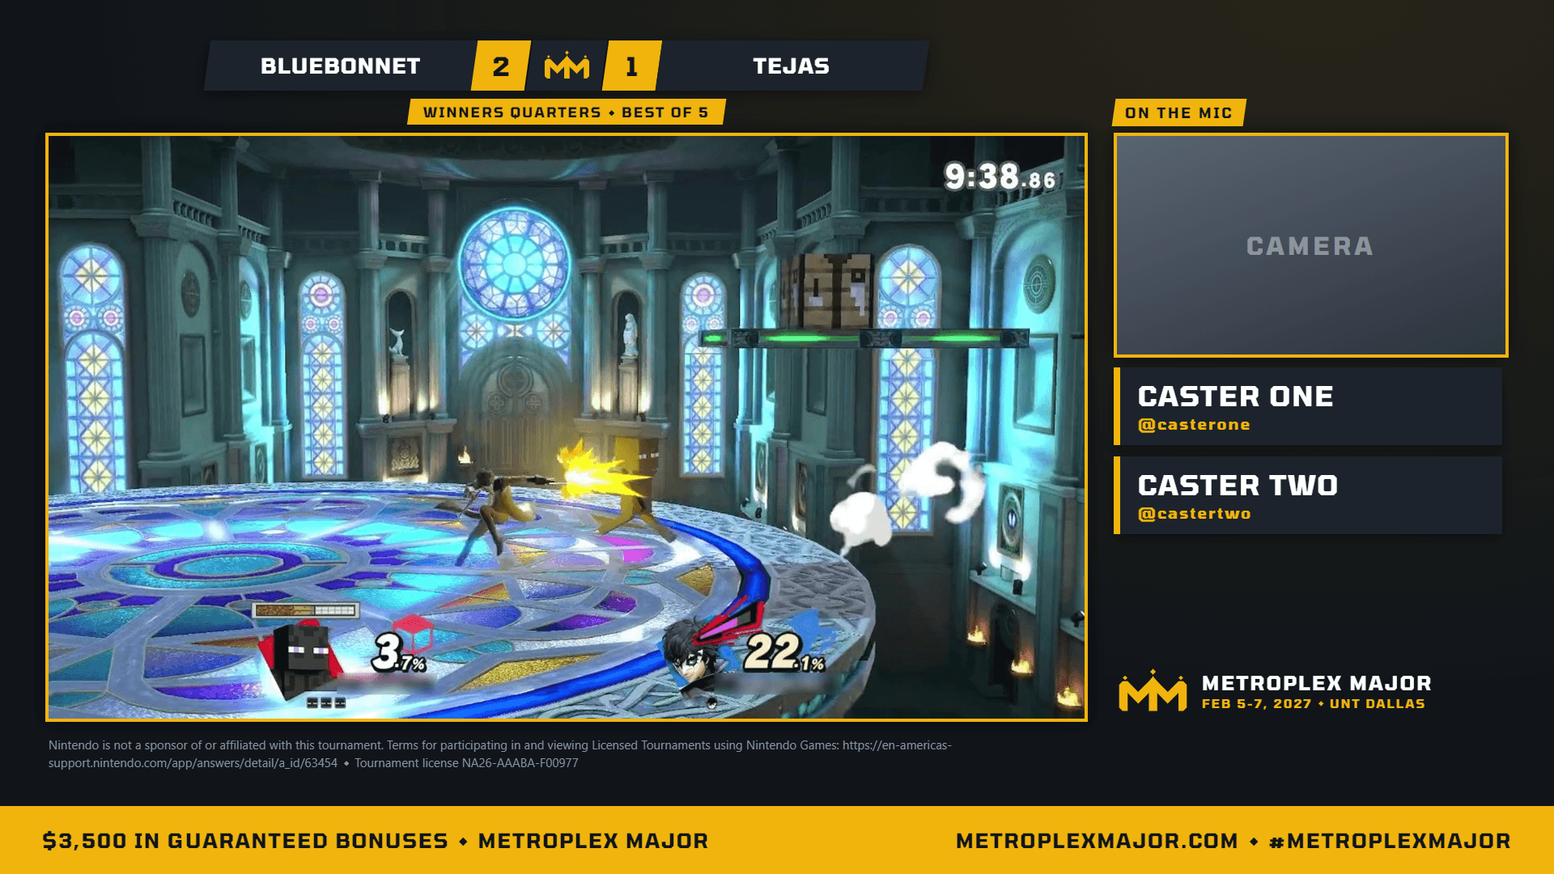
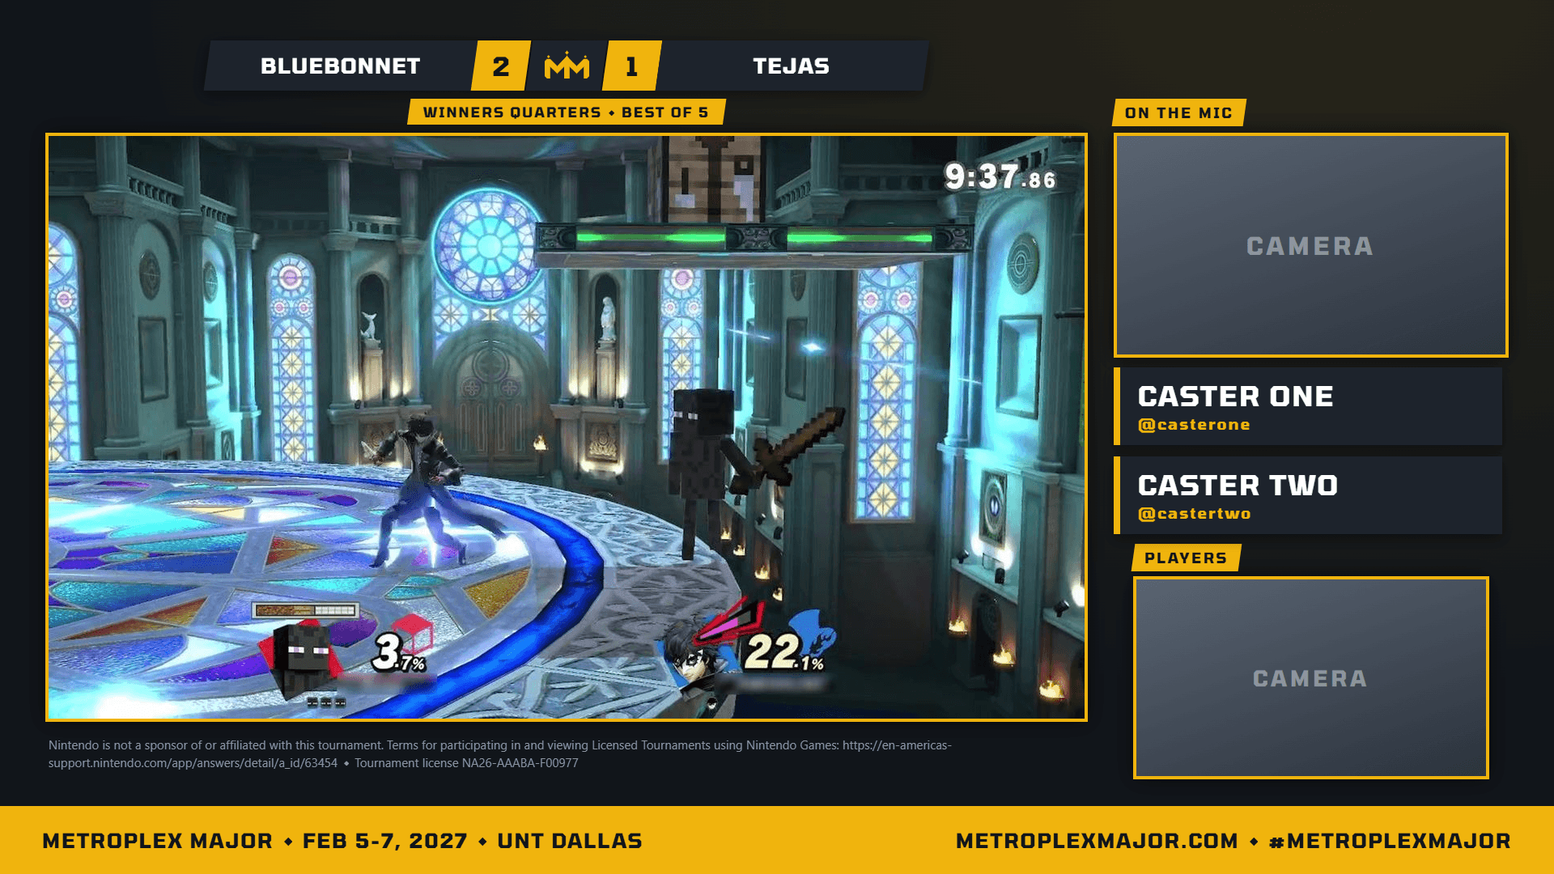
Player cam: a frame on the gameplay overlay and a Players window in Casters
- Settings, Player cam: pick the camera, "Add player cam to OBS" puts it
  in the gameplay scene just under the overlay and in MM Casters just
  under the Casters page; "Show the player cam" turns the frames on.
- Gameplay: a 352x198 window at the bottom, centred between the two
  players' HUD panels in Ultimate (x 754-1106) and bottom centre in
  Tekken 8 and SF6. The recorder moves the camera when the game changes,
  hides it for Ultimate doubles and when the setting is off.
  playerCam.boxes in config.json overrides a game's window.
- MM ticker stops short of the cam frame in Tekken 8.
- Casters: a Players window under the caster cards, in place of the
  crown lockup.
- README: Player cam section; screenshots redone with the cam, the
  wrapped ticker and the plain REPLAY badge.

Tested against OBS 32 with a stand-in camera (placement, layer order,
game switch, doubles, setting off) and in Chrome (frames, ticker widths).

diff --git a/server.js b/server.js
@@ -101,6 +101,10 @@ const DEFAULT_CONFIG = {
   // at 100% be heard (slowed ones never are).
   // fade takes a little colour out of the clip on air, so viewers can tell the moment already happened.
   replay: { enabled: true, seconds: 15, speed: 50, autoReturn: true, audio: false, inRecord: false, fade: true },
+  // Player cam: one camera on the players. enabled draws its frame on the gameplay overlay (bottom centre,
+  // between Ultimate's HUD panels) and a Players box in the Casters scene; source is the OBS input that
+  // "Add player cam to OBS" places under those frames. boxes (optional) overrides the window per game.
+  playerCam: { enabled: false, source: '' },
 };
 
 // ---------- utilities ----------
@@ -738,6 +742,7 @@ function onSwitcherEvent(ev) {
     if (sw === obs) trainer.cleanupLeftovers();
     rememberRecordDirectory();
     replay.onReady().catch((e) => log('Instant replay:', e.message));
+    if (sw === obs) syncPlayerCam({ force: true });
   } else if (['replay-state', 'replay-saved', 'media-ended'].includes(ev.type)) {
     replay.onSwitcherEvent(ev);
   } else if (ev.type === 'record') {
@@ -1521,6 +1526,8 @@ function updateConfig(body) {
     inRecord: !!rp.inRecord,
     fade: rp.fade !== false,
   };
+  const pc = next.playerCam || {};
+  next.playerCam = { enabled: !!pc.enabled, source: String(pc.source || '').trim().slice(0, 200), ...(pc.boxes && typeof pc.boxes === 'object' ? { boxes: pc.boxes } : {}) };
   const modeChanged = next.mode !== cfg.mode;
   // The buffer runs in Broadcast mode (and in Record mode only with inRecord), so a mode switch can start or stop it.
   const replayChanged = modeChanged || ['enabled', 'seconds', 'inRecord', 'fade'].some((k) => next.replay[k] !== cfg.replay[k]);
@@ -1622,6 +1629,8 @@ function coreSnapshot() {
     branding: brandingInfo(),
     screens: state.screens,
     screenLayout: CASTER_LAYOUT,
+    // Where the player cam's window is on the gameplay screen for the game being played, and whether it shows.
+    playerCam: playerCamView(),
     screenScenes: SCREENS.map((s) => s.scene),
     stageList: STAGES,
     version: APP_VERSION,
@@ -1661,6 +1670,8 @@ const lastSent = { state: '', log: '', replays: '' };
 // nothing anyone can see sends nothing. The log and replays go first, so the dashboard has them when
 // the state event redraws it.
 function broadcast() {
+  // The player cam follows the game and doubles; this does nothing until something it depends on changed.
+  if (cfg.playerCam && cfg.playerCam.source) syncPlayerCam();
   if (broadcastTimer) return;
   broadcastTimer = setTimeout(() => {
     broadcastTimer = null;
@@ -2028,7 +2039,90 @@ async function installOverlay(sceneName) {
 // ---------- stream screens: Starting Soon, BRB, Casters ----------
 // The Casters page draws the Metroplex Major frame with two transparent windows; the gameplay capture
 // and the camera sit underneath, placed into these boxes (1920x1080 coordinates, scaled to the canvas).
-const CASTER_LAYOUT = { game: { x: 60, y: 168, w: 1280, h: 720 }, cam: { x: 1380, y: 168, w: 480, h: 270 } };
+const CASTER_LAYOUT = {
+  game: { x: 60, y: 168, w: 1280, h: 720 }, cam: { x: 1380, y: 168, w: 480, h: 270 },
+  // The player cam, under the caster cards (shown when Settings turns the player cam on).
+  player: { x: 1404, y: 716, w: 432, h: 243 },
+};
+// ---------- player cam ----------
+// Its window on the gameplay screen (1920x1080 coordinates; the overlay draws the frame around it and the
+// camera sits underneath in OBS). Ultimate's 1v1 HUD panels end at x 720 and start at x 1140, so the
+// camera is centred between them on x 930, level with the bottom of the HUD; Tekken 8 and SF6 keep their
+// HUD at the top, so it sits bottom centre. Ultimate doubles fills the bottom with four panels, so the
+// player cam stays off for doubles sets. playerCam.boxes in config.json overrides a game's window.
+const PLAYER_CAM = { ssbu: { x: 754, y: 852, w: 352, h: 198 }, other: { x: 784, y: 852, w: 352, h: 198 } };
+const isDoubles = () => (state.current.game || 'ssbu') === 'ssbu' && [state.current.p1, state.current.p2].some((n) => / & /.test(n || ''));
+function playerCamView() {
+  const game = state.current.game || cfg.game || 'ssbu';
+  const pc = cfg.playerCam || {};
+  const box = (pc.boxes && pc.boxes[game]) || PLAYER_CAM[game] || PLAYER_CAM.other;
+  return { enabled: !!pc.enabled, show: !!pc.enabled && !isDoubles(), box, source: pc.source || '' };
+}
+// Keeps the camera in OBS where the frames are: moved when the game changes, shown or hidden with the
+// setting (and for doubles). Only the scene items "Add player cam to OBS" made are touched.
+let pcamSig = '';
+let pcamBusy = false;
+let pcamAgain = false;
+async function syncPlayerCam({ force = false } = {}) {
+  if (sw !== obs || obs.status !== 'connected') return;
+  const v = playerCamView();
+  if (!v.source) return;
+  const sig = `${v.source}|${v.enabled}|${v.show}|${JSON.stringify(v.box)}`;
+  if (!force && sig === pcamSig) return;
+  if (pcamBusy) { pcamAgain = true; return; }
+  pcamBusy = true;
+  try {
+    let canvas = { w: 1920, h: 1080 };
+    try { const vs = await obs.request('GetVideoSettings'); canvas = { w: vs.baseWidth || 1920, h: vs.baseHeight || 1080 }; } catch { /* assume 1080p */ }
+    const kx = canvas.w / 1920;
+    const ky = canvas.h / 1080;
+    const scenes = (await obs.request('GetSceneList')).scenes.map((s) => s.sceneName);
+    for (const [scene, box, visible] of [[gameplaySceneName(scenes), v.box, v.show], ['MM Casters', CASTER_LAYOUT.player, v.enabled]]) {
+      if (!scene || !scenes.includes(scene)) continue;
+      const it = ((await obs.request('GetSceneItemList', { sceneName: scene })).sceneItems || []).find((i) => i.sourceName === v.source);
+      if (!it) continue;
+      await obs.request('SetSceneItemTransform', {
+        sceneName: scene, sceneItemId: it.sceneItemId,
+        sceneItemTransform: { positionX: box.x * kx, positionY: box.y * ky, alignment: 5, boundsType: 'OBS_BOUNDS_SCALE_INNER', boundsAlignment: 0, boundsWidth: box.w * kx, boundsHeight: box.h * ky },
+      });
+      if (!!it.sceneItemEnabled !== visible) await obs.request('SetSceneItemEnabled', { sceneName: scene, sceneItemId: it.sceneItemId, sceneItemEnabled: visible });
+    }
+    pcamSig = sig;
+  } catch (e) {
+    log('Player cam: could not update OBS', e.message);
+  } finally {
+    pcamBusy = false;
+    if (pcamAgain) { pcamAgain = false; syncPlayerCam(); }
+  }
+}
+// Puts the camera input into the gameplay scene (just under the overlay, which draws its frame) and into
+// MM Casters (just under the Casters page), then places it.
+async function installPlayerCam(source) {
+  if (sw !== obs || obs.status !== 'connected') throw new Error('OBS is not connected');
+  if (source !== undefined) { cfg.playerCam = { ...cfg.playerCam, source: String(source || '').trim() }; saveConfig(); }
+  const src = cfg.playerCam.source;
+  if (!src) throw new Error('Pick the player camera in Settings, Player cam, first');
+  const inputs = (await obs.request('GetInputList')).inputs.map((i) => i.inputName);
+  if (!inputs.includes(src)) throw new Error(`OBS has no source called "${src}"`);
+  const scenes = (await obs.request('GetSceneList')).scenes.map((s) => s.sceneName);
+  const gameplay = gameplaySceneName(scenes);
+  if (!gameplay) throw new Error('No gameplay scene found in OBS: pick it in Settings, Stream screens');
+  const done = [];
+  for (const [scene, under] of [[gameplay, OVERLAY_INPUT], ['MM Casters', 'MM Casters Frame']]) {
+    if (!scenes.includes(scene)) continue;
+    const items = async () => (await obs.request('GetSceneItemList', { sceneName: scene })).sceneItems || [];
+    if (!(await items()).some((i) => i.sourceName === src)) await obs.request('CreateSceneItem', { sceneName: scene, sourceName: src, sceneItemEnabled: true });
+    const list = await items();
+    const me = list.find((i) => i.sourceName === src);
+    const top = list.find((i) => i.sourceName === under);
+    if (me && top) await obs.request('SetSceneItemIndex', { sceneName: scene, sceneItemId: me.sceneItemId, sceneItemIndex: me.sceneItemIndex > top.sceneItemIndex ? top.sceneItemIndex : top.sceneItemIndex - 1 }).catch(() => {});
+    done.push(scene);
+  }
+  await syncPlayerCam({ force: true });
+  log(`Player cam: "${src}" placed in ${done.join(' and ')}`);
+  broadcast();
+  return { ok: true, scenes: done, source: src };
+}
 const SCREENS = [
   { id: 'starting', scene: 'MM Starting Soon', input: 'MM Starting Soon Screen', path: '/slate?scene=starting' },
   { id: 'brb', scene: 'MM BRB', input: 'MM BRB Screen', path: '/slate?scene=brb' },
@@ -2212,6 +2306,13 @@ async function handleDetectApi(route, req, res, url) {
     case 'POST /api/overlay/install': {
       const body = await readBody(req);
       try { sendJson(res, 200, sw === vmix ? await installVmixOverlay(body.channel) : await installOverlay(String(body.scene || ''))); }
+      catch (e) { sendJson(res, 400, { error: e.message }); }
+      return true;
+    }
+    // "Add player cam to OBS" (Settings, Player cam): body.source picks the camera input.
+    case 'POST /api/playercam/install': {
+      const b = await readBody(req);
+      try { sendJson(res, 200, await installPlayerCam(b.source)); }
       catch (e) { sendJson(res, 400, { error: e.message }); }
       return true;
     }

diff --git a/public/casters.html b/public/casters.html
@@ -6,7 +6,7 @@
 <!-- Casters scene, 1920x1080. The frame is drawn around two transparent windows: the gameplay capture
      and the camera sit underneath in OBS ("Add Metroplex Major scenes" places them; the boxes come from
      the server's CASTER_LAYOUT). Above the gameplay: the current set and score. Under the camera: one or
-     two caster name cards typed in the dashboard. -->
+     two caster name cards typed in the dashboard, then the player cam's window when the player cam is on. -->
 <style>
   @font-face { font-family: 'Tomorrow'; src: url('/fonts/Tomorrow-Bold.ttf') format('truetype'); font-weight: 700; }
   html, body { margin: 0; width: 1920px; height: 1080px; overflow: hidden; background: transparent; }
@@ -45,7 +45,7 @@
   <svg id="bg" viewBox="0 0 1920 1080" aria-hidden="true">
     <defs>
       <radialGradient id="glow" cx="0.85" cy="0" r="0.8"><stop offset="0" stop-color="#F0B40D" stop-opacity=".10"/><stop offset="1" stop-color="#F0B40D" stop-opacity="0"/></radialGradient>
-      <mask id="holes"><rect width="1920" height="1080" fill="#fff"/><rect id="hole-game" fill="#000"/><rect id="hole-cam" fill="#000"/></mask>
+      <mask id="holes"><rect width="1920" height="1080" fill="#fff"/><rect id="hole-game" fill="#000"/><rect id="hole-cam" fill="#000"/><rect id="hole-player" fill="#000" width="0" height="0"/></mask>
     </defs>
     <g mask="url(#holes)">
       <rect width="1920" height="1080" fill="#11151A"/>
@@ -54,6 +54,7 @@
   </svg>
   <div id="frame-game" class="frame"></div>
   <div id="frame-cam" class="frame"></div>
+  <div id="frame-player" class="frame" hidden></div>
   <div id="board" hidden>
     <div id="n1" class="seg nm"><span></span></div>
     <div id="s1" class="seg pt"><span></span></div>
@@ -64,6 +65,7 @@
   <div id="round" hidden><span></span></div>
   <div id="headline" hidden>Metroplex Major</div>
   <div id="cam-tag" class="tag"><span>On the mic</span></div>
+  <div id="player-tag" class="tag" hidden><span>Players</span></div>
   <div id="card1" class="card" hidden><b></b><small></small></div>
   <div id="card2" class="card" hidden><b></b><small></small></div>
   <div id="lockup">
@@ -135,6 +137,19 @@
       card.querySelector('small').textContent = k.handle || '';
       card.querySelector('small').hidden = !k.handle;
       y += (k.handle ? 96 : 76) + 14;
+    }
+    // Player cam (Settings, Player cam): a third window under the caster cards, with its own tag. It takes
+    // the crown lockup's place; the gold band below still carries the Major's name.
+    const pl = L.player;
+    const pcOn = !!(pl && S.playerCam && S.playerCam.enabled);
+    $('#frame-player').hidden = !pcOn;
+    $('#player-tag').hidden = !pcOn;
+    $('#lockup').hidden = pcOn;
+    setRect($('#hole-player'), pcOn ? pl : { x: 0, y: 0, w: 0, h: 0 });
+    if (pcOn) {
+      place($('#frame-player'), { x: pl.x - 4, y: pl.y - 4, w: pl.w, h: pl.h });
+      $('#player-tag').style.left = px(pl.x - 4);
+      $('#player-tag').style.top = px(pl.y - 44);
     }
     // Crown lockup at the foot of the right column, level with the bottom of the gameplay window.
     const lock = $('#lockup');

diff --git a/public/overlay.js b/public/overlay.js
@@ -275,10 +275,11 @@
   }
   // Ticker and crown lockup in the bottom corners, for every game whose HUD leaves the corners free.
   let mmTicker = null;
+  let tickerFit = null;
   // In a narrow corner each short part between the gems stays on one line, so a line breaks at the gems
   // ("Feb 5-7, 2027" never splits); a part too long for one line still wraps.
   function tickerHtml(line) {
-    if (!G.ticker) return window.MM.gems(line);
+    if (!tickerFit) return window.MM.gems(line);
     return String(line).split(/\s*(?:◆|<>)\s*/)
       .map((part) => (part.length <= 26 ? `<span class="nb">${window.MM.gems(part)}</span>` : window.MM.gems(part)))
       .join(window.MM.GEM);
@@ -288,9 +289,13 @@
     if (!show) return;
     const mm = S.branding.mm || {};
     $('#mm-sub').innerHTML = mm.mode === 'event' ? '' : window.MM.gems('Feb 5-7, 2027 ◆ UNT Dallas');
-    // A game with a narrow free corner (G.ticker) gets the ticker wrapped to that width.
+    // A game with a narrow free corner (G.ticker) gets the ticker wrapped to that width, and with the player
+    // cam on, the ticker stops 30 px short of the cam's frame.
     const t = $('#mm-ticker');
-    const tk = G.ticker || null;
+    let tk = G.ticker || null;
+    const pc = S.playerCam || {};
+    if (pc.show && pc.box && (!tk || 44 + tk.w > pc.box.x - 34)) tk = { w: pc.box.x - 78, size: tk ? tk.size : 20 };
+    tickerFit = tk;
     t.style.maxWidth = tk ? px(tk.w) : '';
     t.style.whiteSpace = tk ? 'normal' : '';
     t.style.fontSize = tk ? px(tk.size || 16) : '';
@@ -298,6 +303,18 @@
     t.style.lineHeight = tk ? '1.3' : '';
     if (!mmTicker) mmTicker = window.MM.ticker($('#mm-ticker'), () => window.MM.lines(S), 7000, tickerHtml);
     else mmTicker.refresh();
+  }
+  // The player cam's frame, drawn around the window the server places the camera in (S.playerCam: on for
+  // the game being played, off for Ultimate doubles).
+  function renderPlayerCam() {
+    const pc = S.playerCam || {};
+    const el = $('#pcam');
+    el.hidden = !(pc.show && pc.box);
+    if (el.hidden) return;
+    el.style.left = px(pc.box.x - 4);
+    el.style.top = px(pc.box.y - 4);
+    el.style.width = px(pc.box.w);
+    el.style.height = px(pc.box.h);
   }
   // Right after "Add overlay to OBS" the server opens a short window in which sample names are shown,
   // so the new layer is visible in OBS before any set is picked.
@@ -331,6 +348,7 @@
     // Ultimate doubles shows four HUD panels across the whole bottom, so the corners stay off. Doubles
     // teams arrive as "A & B" (entrantNames on the server); crews are titled by the crew's name.
     const doubles = game === 'ssbu' && [S.current.p1, S.current.p2].some((n) => / & /.test(n || ''));
+    renderPlayerCam();
     renderMMCorners(mm && G.corners !== false && !doubles && (S.branding.mm || {}).corners !== false);
     if (useTT) { renderTT(ov, demoActive()); return; }
     if (useMM) { renderMM(ov, demoActive()); return; }

diff --git a/public/app.js b/public/app.js
@@ -1100,6 +1100,9 @@
     set('replay.autoReturn', rp.autoReturn !== false);
     set('replay.audio', !!rp.audio);
     set('replay.fade', rp.fade !== false);
+    set('playerCam.enabled', !!(c.playerCam && c.playerCam.enabled));
+    loadCamChoices((c.playerCam && c.playerCam.source) || '');
+    $('#playercam-status').textContent = '';
     renderReplaySceneStatus();
     set('overlay.center', c.overlay ? c.overlay.center : 'round');
     set('overlay.scores', !c.overlay || c.overlay.scores !== false);
@@ -1469,6 +1472,28 @@
     if (selected && !opts.some((o) => o[0] === selected)) opts.push([selected, selected]);
     sel.innerHTML = opts.map(([v, label]) => `<option value="${esc(v)}"${v === selected ? ' selected' : ''}>${esc(label)}</option>`).join('');
   }
+  // Player cam picker: the video inputs in OBS (cameras first).
+  async function loadCamChoices(selected) {
+    const sel = $('#settings-form').elements['playerCam.source'];
+    if (!sel) return;
+    let data = { inputs: [], scenes: [] };
+    try { data = await api('GET', '/api/detect/sources'); } catch { /* app offline */ }
+    const video = data.inputs.filter((i) => !/^(browser_source|text_|image_source|color_source|wasapi_|coreaudio_|pulse_|alsa_|jack_)/.test(i.kind || ''));
+    video.sort((a, b) => Number(/dshow_input|av_capture|v4l2/.test(b.kind)) - Number(/dshow_input|av_capture|v4l2/.test(a.kind)));
+    const opts = [['', '(pick the player camera)'], ...video.map((i) => [i.name, `${i.name} (${i.kind})`])];
+    if (selected && !opts.some((o) => o[0] === selected)) opts.push([selected, `${selected} (not found)`]);
+    sel.innerHTML = opts.map(([v, label]) => `<option value="${esc(v)}"${v === selected ? ' selected' : ''}>${esc(label)}</option>`).join('');
+  }
+  $('#btn-playercam').addEventListener('click', async () => {
+    const out = $('#playercam-status');
+    const source = $('#settings-form').elements['playerCam.source'].value;
+    if (!source) { out.textContent = 'Pick the camera first.'; return; }
+    out.textContent = 'Placing the camera in OBS...';
+    try {
+      const r = await api('POST', '/api/playercam/install', { source });
+      out.textContent = `"${r.source}" is in ${r.scenes.join(' and ')}. Tick Show the player cam and Save settings to turn the frames on.`;
+    } catch (e) { out.textContent = e.message; }
+  });
   // Scene pickers for auto-switch: OBS scenes, or vMix inputs.
   async function loadSceneChoices(sc) {
     const f = $('#settings-form');

diff --git a/public/index.html b/public/index.html
@@ -430,6 +430,19 @@
         </div>
       </fieldset>
       <fieldset>
+        <legend>Player cam</legend>
+        <label class="check"><input type="checkbox" name="playerCam.enabled"> <span>Show the player cam: a frame at the bottom of the gameplay overlay (between the two players' HUD in Smash, bottom centre in Tekken 8 and SF6) and a Players window in the Casters scene. It stays off for Smash doubles, whose HUD fills the bottom.</span></label>
+        <div class="grid2 sw-obs">
+          <label>Camera <select name="playerCam.source"></select></label>
+        </div>
+        <div class="row sw-obs" style="align-items:center;flex-wrap:wrap;gap:8px">
+          <button type="button" id="btn-playercam" class="small">Add player cam to OBS</button>
+          <span id="playercam-status" class="muted"></span>
+        </div>
+        <div class="muted sw-obs" style="margin-top:6px">Puts the camera into the gameplay scene, just under the overlay, and into MM Casters, sized to the frames. The recorder moves it when the game changes and hides it with the setting.</div>
+        <div class="muted sw-vmix">In vMix, add the camera as a layer of the gameplay input under the overlay, at x 784, y 852, 352 by 198 (x 754 for Smash), on a 1920 by 1080 output.</div>
+      </fieldset>
+      <fieldset>
         <legend>Instant replay</legend>
         <div class="muted sw-obs">OBS keeps the last few seconds in memory with its Replay Buffer, using the recording encoder (no second encode). Turn it on once in OBS: Settings, Output, tick Enable Replay Buffer (in Advanced output mode it is the Replay Buffer tab), then OK. The recorder sets the length and keeps the buffer running. Recording format Hybrid MP4 (or MP4) is best: with MKV and "Automatically remux to mp4", OBS also remuxes every replay and opens its remux window.</div>
         <div class="muted sw-vmix">Uses vMix's own Instant Replay (vMix 4K, Pro or MAX). Add a Replay input in vMix and set its camera to Output. REPLAY marks the last seconds as a vMix event and, when vMix runs on this PC, exports it into the Replays folder; Play sends the newest event to the output at the chosen speed. Not yet tested on a live vMix.</div>

diff --git a/public/overlay.html b/public/overlay.html
@@ -90,6 +90,12 @@
   #mm-lockup small { display: block; margin-top: 6px; color: #F0B40D; font-weight: 700; font-size: 14px; letter-spacing: .14em; line-height: 1; }
   #mm-lockup small:empty { display: none; }
   #mm-lockup small svg.gem { margin: 0 .4em; }
+
+  /* Player cam: a frame around the camera's window (the camera itself sits under the overlay in OBS).
+     TEC red with a white edge; Tuesday Takedown gold in black; Metroplex Major gold. */
+  #pcam { position: absolute; box-sizing: content-box; border: 4px solid #FF3D2E; box-shadow: 0 0 0 2px #fff, 0 6px 18px rgba(0,0,0,.5); pointer-events: none; }
+  .tt-colors #pcam { border-color: #F2B53A; box-shadow: 0 0 0 3px #0a0a0a, 0 6px 18px rgba(0,0,0,.5); }
+  .mm-colors #pcam { border-color: #F0B40D; box-shadow: 0 6px 18px rgba(0,0,0,.5); }
 </style>
 </head>
 <body>
@@ -139,6 +145,7 @@
   <div id="mm-w1" class="mm-pips"></div>
   <div id="mm-w2" class="mm-pips"></div>
 </div>
+<div id="pcam" hidden></div>
 <div id="mm-corners" hidden>
   <div id="mm-ticker"></div>
   <div id="mm-lockup">

diff --git a/README.md b/README.md
@@ -14,12 +14,12 @@ last-synced bracket and manual entry keep working, and sync resumes on its own.
 
 ## Screenshots
 
-Rendered by OBS from the recorder's own scenes in the Metroplex Major theme, over Smash Ultimate gameplay, with
-made-up player and caster names (the in-game name tags are blurred). The grey CAMERA box is where OBS shows the
-casters' camera.
+The recorder's own pages in the Metroplex Major theme, layered over Smash Ultimate gameplay the way OBS layers
+them, with made-up player and caster names (the in-game name tags are blurred). The grey CAMERA boxes are where OBS
+shows the cameras.
 
-**Stream overlay** over the gameplay: names, score, round, games won, and the rotating promo line and crown in the
-corners.
+**Stream overlay** over the gameplay: names, score, round, games won, the player cam between the two players' HUD,
+and the rotating promo line and crown in the corners.
 
 ![Stream overlay](docs/screenshots/overlay.png)
 
@@ -28,7 +28,7 @@ little faded so viewers can tell it already happened.
 
 ![Instant replay](docs/screenshots/replay.png)
 
-**Casters** scene: gameplay and camera windows, the set and score above, one or two name cards.
+**Casters** scene: gameplay and camera windows, the set and score above, one or two name cards, and the player cam.
 
 ![Casters scene](docs/screenshots/casters.png)
 
@@ -321,6 +321,27 @@ http://localhost:8420/overlay. **Remove from OBS** takes the layer out again.
 After you press the button, the header chip reads **Overlay: live in <scene>**, the layer shows sample names for
 30 seconds, and if OBS is showing a different scene the message says so: switch OBS to that scene to see it. The item
 is scaled to your canvas, so a 1280x720 canvas gets the same layout at 2/3 size.
+
+In the Metroplex Major theme the ticker sits in the bottom-left corner. In Ultimate it wraps inside the free corner
+left of player 1's HUD panel, breaking lines at the gems, and Ultimate doubles (four HUD panels across the bottom)
+leaves both corners off.
+
+### Player cam
+
+One camera on the players. Settings, **Player cam**:
+
+1. Pick the camera under **Camera** (cameras are listed first) and press **Add player cam to OBS**. The camera goes
+   into the gameplay scene just under the overlay and into MM Casters just under the Casters page, sized to the frames.
+2. Tick **Show the player cam** and save.
+
+On the gameplay screen the overlay draws a frame around a 352x198 window at the bottom: centred between the two
+players' HUD panels in Ultimate (x 754 to 1106, since the 1v1 HUD panels end at x 720 and start at x 1140), bottom
+centre in Tekken 8 and SF6, whose HUD is at the top. The recorder moves the camera when the game changes, hides it
+for Ultimate doubles, and hides it in both scenes when the box is unticked. In the Casters scene it is a **Players**
+window under the caster cards, in place of the crown lockup. A different window for a game can be set in
+`data/config.json` under `playerCam.boxes` (for example `"ssbu": { "x": 754, "y": 852, "w": 352, "h": 198 }`, in
+1920x1080 coordinates). With vMix, add the camera as a layer of the gameplay input under the overlay at those
+coordinates; the frame is drawn either way.
 
 ## Character detection (optional)
 
